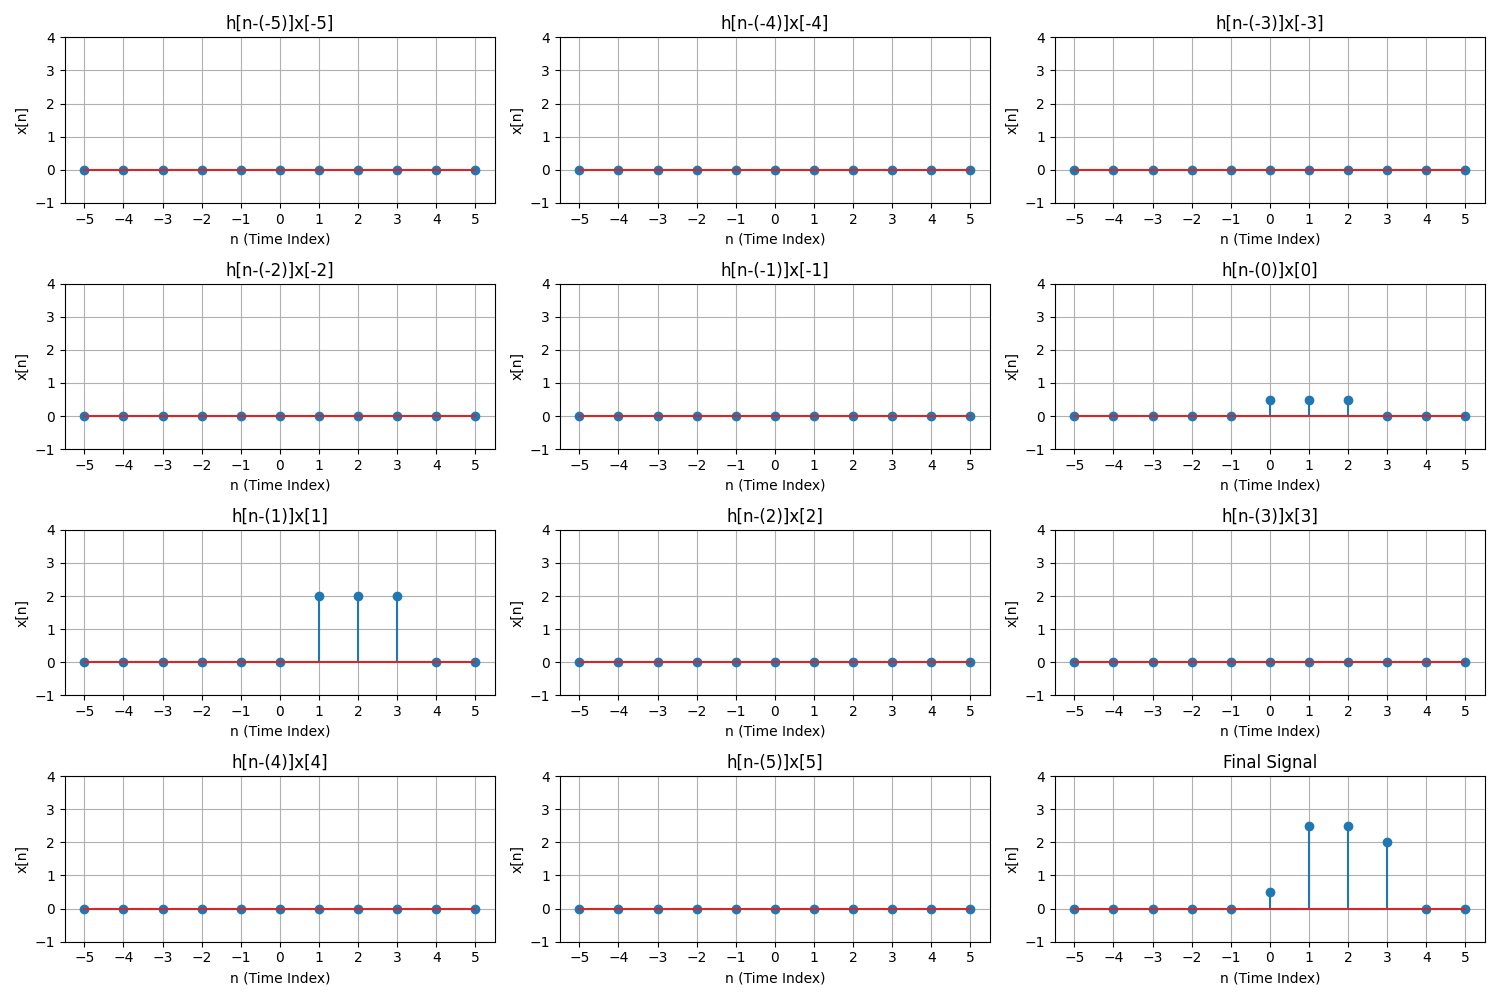
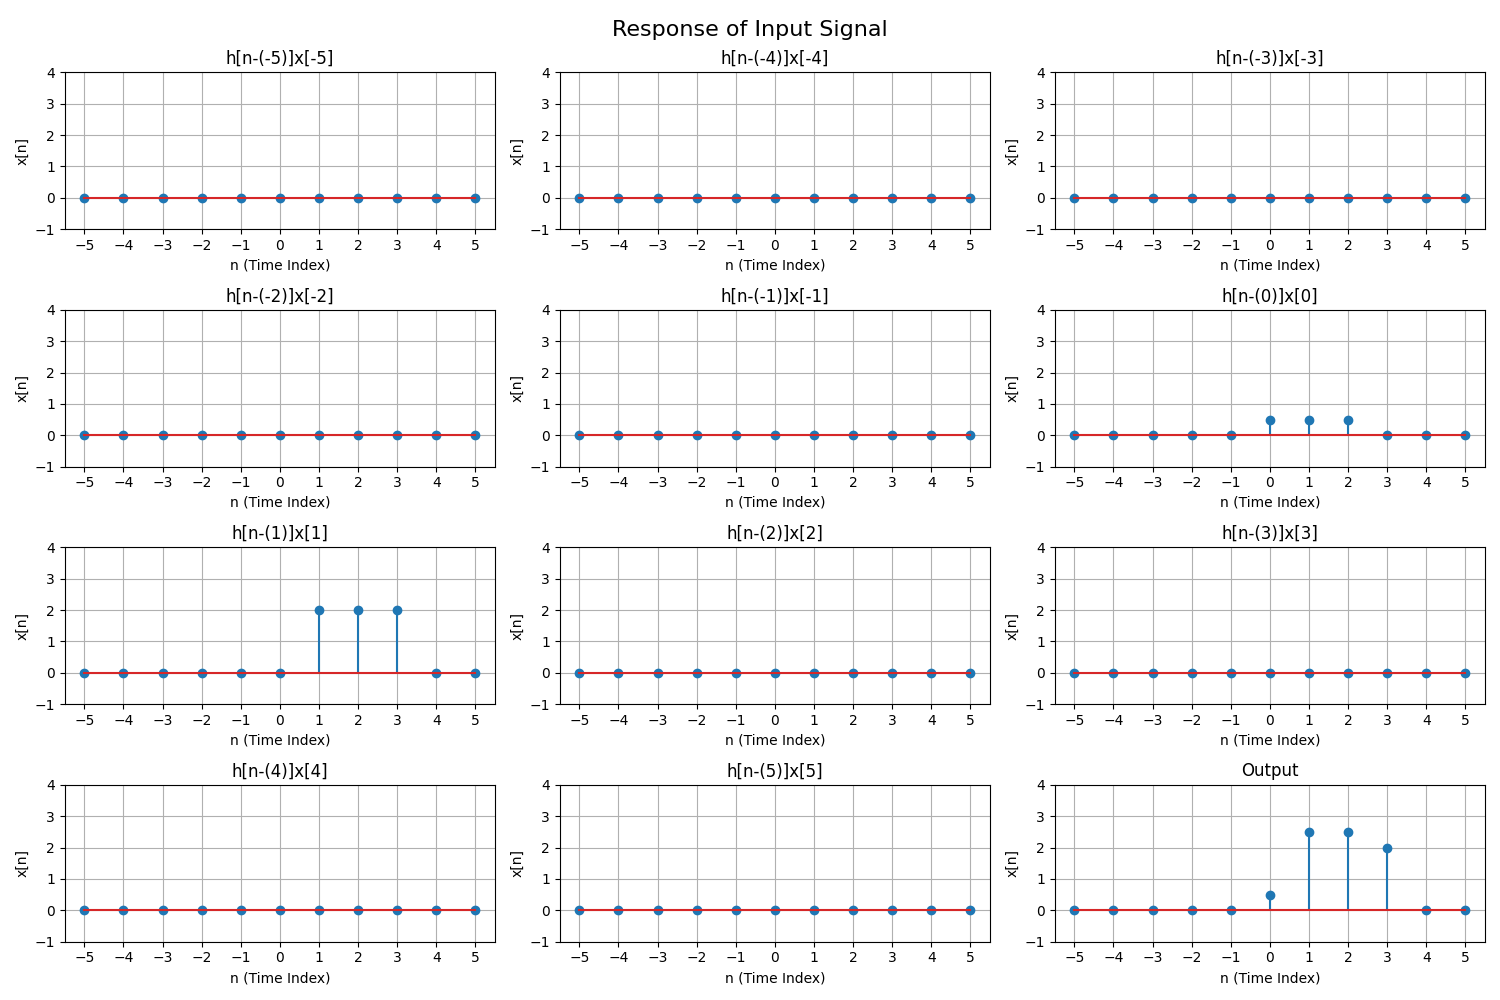
Last nail in the coffin

diff --git a/LTI_Continuous.py b/LTI_Continuous.py
@@ -33,8 +33,10 @@ def plot_all_continuous(
         INF=3,
         delta=0.5,
         # final_signal=None,
+        main_title=None,
+        final_signal_title=None,
         coefficients=None,
-        titles=None,
+        title_prefix=None,
         y_range=(-0.05, 1.05),
         figsize=(15, 10),
         saveTo=None
@@ -52,6 +54,8 @@ def plot_all_continuous(
         ax = axes[i]
         x = np.linspace(-INF, INF,1000)
         y = signal.func(x) * coefficients[i]*delta if coefficients is not None else signal.values
+        n_val = math.floor(float(INF)/delta)
+        indices = np.arange(-n_val,n_val,dtype=float)
         # print(signal.func(x),coefficients[i])
         x = np.append(x, INF)
         y = np.append(y, 0)
@@ -61,8 +65,8 @@ def plot_all_continuous(
         # ax.set_ylim(*y_range)
         ax.set_xticks(np.arange(-INF, INF + 1, 1))  # Set x-ticks at intervals of 1
         ax.set_yticks(np.arange(0, y_range[1], 0.5))  # Set y-ticks at intervals of 0.5
-        if titles and i < len(titles):
-            ax.set_title(titles[i])
+        if title_prefix:
+            ax.set_title(f'{title_prefix}(t-({indices[i]}∇))x({indices[i]}∇)∇')
         ax.set_xlabel('t (Time)')
         ax.set_ylabel('x(t)')
         ax.grid(True)
@@ -84,13 +88,15 @@ def plot_all_continuous(
     ax.plot(x, final_output)
     ax.set_xlim(-x_high, x_high)
     # ax.set_ylim(*y_range)
-    ax.set_title('Final Signal')
+    ax.set_title(final_signal_title)
     ax.set_xlabel('t (Time)')
     ax.set_ylabel('x(t)')
     ax.grid(True)
 
     for j in range(len(signals) + 1, len(axes)):
         fig.delaxes(axes[j])
+
+    fig.suptitle(main_title, fontsize=16)
 
     plt.tight_layout()
     if saveTo is not None:
@@ -102,6 +108,7 @@ def plot_compare_input(
         input_signal,
         # actual_signal,
         deltas,
+        main_title=None,
         INF=3,
         y_range=(-0.05, 1.05),
         figsize=(15, 10),
@@ -122,17 +129,18 @@ def plot_compare_input(
         y_approx = sum([delayed_signals[i].func(x)*coefficients[i]*delta for i in range(len(delayed_signals))])
         y_actual = input_signal.func(x)
         ax.set_xlim(-x_high, x_high)
-        ax.plot(x,y_approx,label='y_approx')
-        ax.plot(x,y_actual,label='y_actual')
+        ax.plot(x,y_approx,label='Reconstructed')
+        ax.plot(x,y_actual,label='x(t)')
         ax.legend()
         ax.set_xticks(np.arange(-INF, INF + 1, 1))
-        ax.set_yticks(np.arange(0, y_range[1], 0.5))
-        ax.set_title(f'delta={delta}')
+        ax.set_title(f'∇={delta}')
         ax.grid(True)
 
     for j in range(len(deltas),len(axes)):
         fig.delaxes(axes[j])
     plt.tight_layout()
+
+    fig.suptitle(main_title, fontsize=16)
 
     if saveTo is not None:
         plt.savefig(saveTo)
@@ -142,6 +150,8 @@ def plot_compare_input(
 def plot_compare_output(
         input_signal,
         impulse_response,
+        main_title=None,
+        original_output_label=None,
         deltas=[],
         INF=3,
         figsize=(15, 10),
@@ -162,15 +172,17 @@ def plot_compare_output(
         output,delayed_impulses,coefficients = lti.output_approx(input_signal,delta)
         y_approx = output.func(x_values)
         ax.set_xlim(-x_high, x_high)
-        ax.plot(x_values,y_approx,label='y_approx')
-        ax.plot(x_values,output_original,label='y_actual')
+        ax.plot(x_values,y_approx,label='y_approx(t)')
+        ax.plot(x_values,output_original,label=original_output_label)
         ax.legend()
         ax.set_xticks(np.arange(-INF, INF + 1, 1))
-        ax.set_title(f'delta={delta}')
+        ax.set_title(f'∇={delta}')
         ax.grid(True)
 
     for j in range(len(deltas),len(axes)):
         fig.delaxes(axes[j])
+
+    fig.suptitle(main_title, fontsize=16)
 
     plt.tight_layout()
     if saveTo is not None:
@@ -186,10 +198,10 @@ def plot_compare_output(
 #     # input_signal = cs.ContinuousSignal(lambda x: 1 if x>=0 and x<=1 else 0)
 #     delta = 0.5
 #     delayed_signals,coefficients = lti.linear_combination_of_impulses(input_signal,delta)
-#     plot_all_continuous(delayed_signals,delta=delta,coefficients=coefficients,saveTo=f'{img_root_path}/lti.png')
-#     output,delayed_impulses,coefficients = lti.output_approx(input_signal,delta)
-#     plot_all_continuous(delayed_impulses,delta=delta,coefficients=coefficients,saveTo=f'{img_root_path}/lti_output.png')
-#     # output_original = cs.ContinuousSignal(lambda x: np.ones_like(x)-np.exp(-x) if x>=0 else 0)
-#     # plot_compare_input(input_signal=input_signal,deltas=[0.5,0.1,0.05,0.01],saveTo=f'{img_root_path}/lti_compare.png')
-#     plot_compare_output(input_signal=input_signal,impulse_response=impulse_response,deltas=[0.5,0.1,0.05,0.01],saveTo=f'{img_root_path}/lti_compare_output.png')
+#     # plot_all_continuous(delayed_signals,delta=delta,title_prefix='δ',final_signal_title='Reconstructed Signal',coefficients=coefficients,saveTo=f'{img_root_path}/lti.png')
+#     # output,delayed_impulses,coefficients = lti.output_approx(input_signal,delta)
+#     # plot_all_continuous(delayed_impulses,delta=delta,title_prefix='h',final_signal_title='Output=Sum',coefficients=coefficients,saveTo=f'{img_root_path}/lti_output.png')
+#     # # output_original = cs.ContinuousSignal(lambda x: np.ones_like(x)-np.exp(-x) if x>=0 else 0)
+#     plot_compare_input(input_signal=input_signal,deltas=[0.5,0.1,0.05,0.01],saveTo=f'{img_root_path}/lti_compare.png')
+#     plot_compare_output(input_signal=input_signal,impulse_response=impulse_response,original_output_label='y(t)=1-e^(-t)u(t)',deltas=[0.5,0.1,0.05,0.01],saveTo=f'{img_root_path}/lti_compare_output.png')
 # main()

diff --git a/plottingUtil.py b/plottingUtil.py
@@ -20,8 +20,8 @@ def main():
     lti = LTI_Discrete(impulse_response)
     unit_impulses,coefficients = lti.linear_combination_of_impulses(input_signal)
     unit_impluse_responses,output_signal = lti.output(input_signal)
-    plot_all_discrete(unit_impulses,final_signal=input_signal,coefficients=coefficients,titles=[f"δ[n-({i})]x[{i}]" for i in range(-input_signal.INF,input_signal.INF+1)],saveTo=f'{img_root_path_discrete}/unit_impulses.png')
-    plot_all_discrete(unit_impluse_responses,final_signal=output_signal,titles=[f"h[n-({i})]x[{i}]" for i in range(-output_signal.INF,output_signal.INF+1)],saveTo=f'{img_root_path_discrete}/unit_impulse_responses.png')
+    plot_all_discrete(unit_impulses,final_signal=input_signal,final_signal_title="Sum",main_title="Impulses Multiplied by Coefficients",coefficients=coefficients,titles=[f"δ[n-({i})]x[{i}]" for i in range(-input_signal.INF,input_signal.INF+1)],saveTo=f'{img_root_path_discrete}/unit_impulses.png')
+    plot_all_discrete(unit_impluse_responses,final_signal=output_signal,final_signal_title="Output",main_title="Response of Input Signal",titles=[f"h[n-({i})]x[{i}]" for i in range(-output_signal.INF,output_signal.INF+1)],saveTo=f'{img_root_path_discrete}/unit_impulse_responses.png')
 
     # Continuous Signals
     img_root_path_continuous = './Continuous Signal Plots'
@@ -31,11 +31,11 @@ def main():
     lti = LTI_Continuous(impulse_response)
     delta = 0.5
     delayed_signals,coefficients = lti.linear_combination_of_impulses(input_signal,delta)
-    plot_all_continuous(delayed_signals,delta=delta,coefficients=coefficients,saveTo=f'{img_root_path_continuous}/lti_input.png')
+    plot_all_continuous(delayed_signals,delta=delta,coefficients=coefficients,main_title='Impulses Multiplied by Coefficients',title_prefix='δ',final_signal_title='Reconstructed Signal',saveTo=f'{img_root_path_continuous}/lti_input.png')
     output,delayed_impulses,coefficients = lti.output_approx(input_signal,delta)
-    plot_all_continuous(delayed_impulses,delta=delta,coefficients=coefficients,saveTo=f'{img_root_path_continuous}/lti_output.png')
+    plot_all_continuous(delayed_impulses,delta=delta,coefficients=coefficients,main_title='Response of Impulse Signal',title_prefix='h',final_signal_title='Output=Sum',saveTo=f'{img_root_path_continuous}/lti_output.png')
     deltas = [0.5,0.1,0.05,0.01]
     plot_compare_input(input_signal=input_signal,deltas=deltas,saveTo=f'{img_root_path_continuous}/lti_compare_input.png')
-    plot_compare_output(input_signal=input_signal,impulse_response=impulse_response,deltas=deltas,saveTo=f'{img_root_path_continuous}/lti_compare_output.png')
+    plot_compare_output(input_signal=input_signal,impulse_response=impulse_response,main_title='Approximate Output as ∇ tends to 0',original_output_label='y(t)=1-e^(-t)u(t)',deltas=deltas,saveTo=f'{img_root_path_continuous}/lti_compare_output.png')
 
 main()

diff --git a/LTI_Discrete.py b/LTI_Discrete.py
@@ -32,6 +32,8 @@ class LTI_Discrete:
 def plot_all_discrete(
         signals,
         final_signal=None,
+        final_signal_title=None,
+        main_title=None,
         coefficients=None,
         titles=None,
         y_range=(-1, 4),
@@ -66,7 +68,7 @@ def plot_all_discrete(
         ax.stem(x, y)
         ax.set_xticks(np.arange(-final_signal.INF, final_signal.INF + 1, 1))
         ax.set_ylim(*y_range)
-        ax.set_title('Final Signal')
+        ax.set_title(final_signal_title)
         ax.set_xlabel('n (Time Index)')
         ax.set_ylabel('x[n]')
         ax.grid(True)
@@ -74,6 +76,8 @@ def plot_all_discrete(
     # Hide any unused subplots
     for j in range(len(signals) + (1 if final_signal is not None else 0), len(axes)):
         fig.delaxes(axes[j])
+
+    fig.suptitle(main_title, fontsize=16)
 
     plt.tight_layout()
     if saveTo is not None:
@@ -94,6 +98,6 @@ def plot_all_discrete(
 #     unit_impulses,coefficients = lti.linear_combination_of_impulses(input_signal)
 #     # unit_impluse_responses,c = lti.linear_combination_of_impulses(impulse_response)
 #     unit_impluse_responses,output_signal = lti.output(input_signal)
-#     plot_all_discrete(unit_impulses,final_signal=input_signal,coefficients=coefficients,titles=[f"δ[n-({i})]x[{i}]" for i in range(-input_signal.INF,input_signal.INF+1)],saveTo=f'{img_root_path}/unit_impulses.png')
-#     plot_all_discrete(unit_impluse_responses,final_signal=output_signal,titles=[f"h[n-({i})]x[{i}]" for i in range(-output_signal.INF,output_signal.INF+1)],saveTo=f'{img_root_path}/unit_impulse_responses.png')
+#     plot_all_discrete(unit_impulses,final_signal=input_signal,final_signal_title="Sum",main_title="Impulses Multiplied by Coefficients",coefficients=coefficients,titles=[f"δ[n-({i})]x[{i}]" for i in range(-input_signal.INF,input_signal.INF+1)],saveTo=f'{img_root_path}/unit_impulses.png')
+#     plot_all_discrete(unit_impluse_responses,final_signal=output_signal,final_signal_title="Output",main_title="Response of Input Signal",titles=[f"h[n-({i})]x[{i}]" for i in range(-output_signal.INF,output_signal.INF+1)],saveTo=f'{img_root_path}/unit_impulse_responses.png')
 # main()
